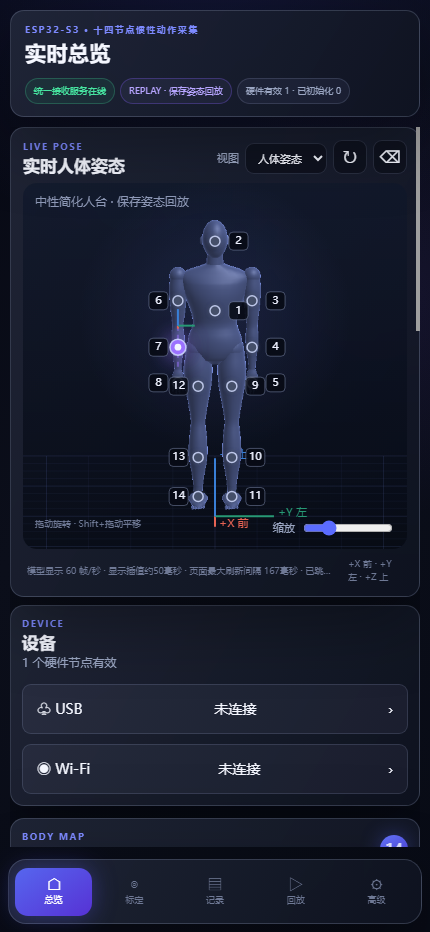
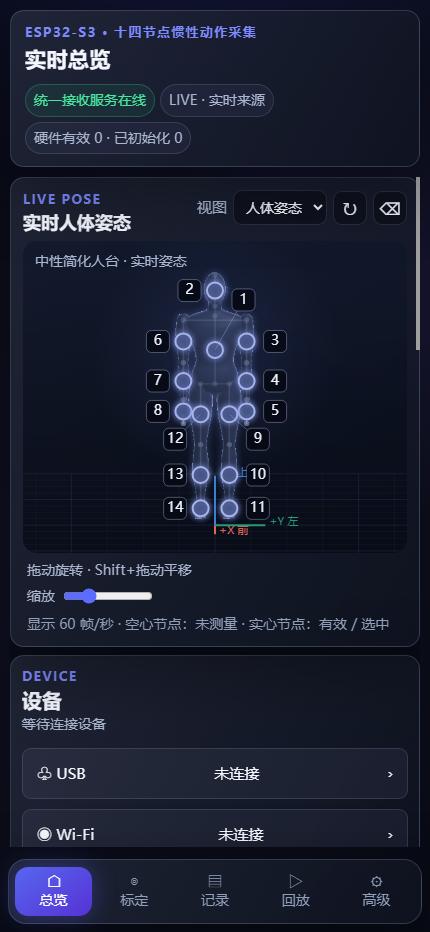
feat: layer glass mannequin skeleton sensors and improve readability

diff --git a/host/web/workspace.css b/host/web/workspace.css
@@ -30,3 +30,69 @@ html,body{height:100%;overflow:hidden}
 @media(min-width:1121px) and (max-height:850px){.topbar{min-height:65px;padding:10px 16px}.app-shell{padding-top:10px;padding-bottom:10px}.app-view[data-view=dashboard]{grid-template-rows:minmax(0,1fr) 165px}.dashboard-grid{grid-template-columns:230px minmax(0,1fr) 300px}.status-rail>.status-card{padding:11px}.status-rail h2{font-size:16px}.status-rail .quality-layout{margin-top:0;grid-template-columns:92px 1fr}.status-rail .quality-ring{width:86px;height:86px;padding:8px}.status-rail .quality-ring strong{font-size:18px}.status-rail .mini-stats{display:none}.transport-tiles{margin:7px 0}.transport-tiles>div{padding:8px}.calibration-progress{margin:8px 0}.status-rail p{font-size:11px;margin:7px 0}.status-rail button{font-size:11px;padding:6px}.body-slot strong{font-size:10px}.body-slot span{font-size:8px}.body-slot{padding-top:2px;padding-bottom:2px}.connection-summary button{padding:9px;margin-top:6px}.connection-summary p{margin:6px 0}.calibration-content{padding:14px}.cal-stepper{padding:7px}.cal-stepper button{font-size:12px}.hero-footer{font-size:8px}.hero-heading h2{font-size:15px}.hero-heading .kicker{display:none}}
 @media(max-width:1120px){.dashboard-grid{grid-template-columns:210px minmax(0,1fr) 260px}.status-rail{grid-column:auto}.status-rail .quality-layout{grid-template-columns:1fr}.quality-ring{display:none}.status-rail .mini-stats{display:none}.transport-tiles{grid-template-columns:1fr}.cal-stepper button{font-size:11px}}
 @media(max-width:900px){html,body{overflow:hidden}.app-shell{padding:10px 10px 85px}.app-main{gap:10px}.view-stack{overflow-y:auto;overflow-x:hidden}.app-view{height:auto;min-height:100%;overflow:visible}.app-view[data-view=dashboard]{display:flex;flex-direction:column}.dashboard-grid{display:flex;flex-direction:column;height:auto}.hero-panel{min-height:470px!important}.device-rail,.status-rail{height:auto}.hero-panel{order:0}.device-rail{order:1}.status-rail{order:2}.device-rail .body-slots{grid-template-rows:repeat(7,40px);height:auto}.status-rail .quality-layout{grid-template-columns:120px 1fr}.quality-ring{display:block}.status-rail .transport-tiles{grid-template-columns:1fr 1fr}.telemetry-dock{height:auto;overflow:visible}.telemetry-grid{height:auto;grid-template-columns:1fr}.chart-card canvas{height:140px;flex:none}.primary-nav{left:8px;right:8px;top:auto;bottom:8px;width:auto;height:65px;padding:6px;flex-direction:row}.brand-mark,.nav-version{display:none}.nav-links{flex-direction:row;margin:0;gap:4px}.nav-item{font-size:9px;min-width:0;flex:1;padding:5px 1px}.topbar{min-height:85px}.calibration-grid,.records-layout{display:flex;flex-direction:column}.cal-stepper{overflow:auto;gap:4px;padding:6px}.cal-stepper button{flex-direction:column;font-size:10px;white-space:nowrap;gap:5px;padding:5px}.cal-stepper b{width:24px;height:24px}.calibration-content{overflow:visible}.app-view[data-view=replay]{display:flex;flex-direction:column}#replay-controls{padding:15px}#replay-model{min-height:480px}.command-feedback{left:10px;right:10px;bottom:85px}.body-toolbar{max-width:none}.compact-select{width:auto}.compact-select select{width:auto}.stage-caption{flex-direction:row}.model-zoom{width:auto}.model-zoom input{width:90px}.stage-caption span{max-width:150px}.page-heading h2{font-size:21px}.cal-step-content .direction-steps{grid-template-columns:1fr}.records-layout>.glass{overflow:visible}.tableScroll{max-width:100%}}
+
+/* Readability: semantic importance uses color and weight, not tiny gray text. */
+:root{--muted:#aab6cf;--dim:#909fba}
+body{font-size:15px}
+button,input,select,label{font-size:15px}
+h2{font-size:20px}h3{font-size:17px}
+.eyebrow,.kicker,.nav-version{font-size:13px;letter-spacing:.1em}
+.badge,.top-status .badge,.nav-item{font-size:14px}
+.status-copy,.subtle,.hint,.device-summary,.sensor-strip,.sensor-strip span,
+.connection-summary p,.page-heading p,.cal-node-selector,.single-node-sensors,
+.quality-metrics span,.quality-metrics strong,.mini-stats span,.mini-stats strong,
+.transport-tiles strong,.status-rail p,.status-rail button,.stage-caption,
+.hero-footer,.model-zoom,.legend,.chart-card h3,.chart-card small,
+.body-slot strong,.body-slot span,.cal-step-content label,
+.calibration-content .pose-step p,.calibration-content .direction-result p,
+.direction-device small,.endpoint-row small,.endpoint-row button,#preview-status{font-size:14px;line-height:1.35}
+.body-slot strong{font-weight:600}.body-slot{padding-top:1px;padding-bottom:1px}
+.body-slot span{color:var(--muted)}.body-slot small{font-size:0}
+.slots-card .section-heading{margin-bottom:7px}.body-slots{height:calc(100% - 43px)}
+.hero-heading h2,.status-rail h2,.telemetry-heading h2{font-size:18px}
+.hero-footer p{white-space:normal;max-width:100%}.hero-footer>span{display:none}
+.hero-footer{min-height:20px}.stage-caption span{color:#aab6cf}
+.cal-stepper button,.calibration-content .calibration-devices h3{font-size:14px}
+.status-rail .transport-tiles strong{font-size:14px}
+.chart-card canvas{min-height:45px}
+.compact-select select{font-size:14px}
+#replay-controls{display:grid;grid-template-columns:repeat(2,minmax(0,1fr));align-content:start;gap:9px;padding:15px}
+#replay-controls>*{min-width:0;margin:0;font-size:15px}
+#replay-controls button{padding:8px 6px;min-height:36px}
+#replay-controls #bodySessions,#replay-controls #bodyRefreshSessions,
+#replay-controls #bodyReplaySeek,#replay-controls #bodyReplayTime,#replay-controls>label{grid-column:1/-1}
+#replay-controls>label{display:flex;align-items:center;justify-content:space-between;gap:10px}
+#replay-controls>label select{width:120px}
+#replay-controls #bodyReplaySeek{padding:0;margin:5px 0}
+#replay-controls #bodyReplayTime{color:#c1cce1}
+@media(min-width:901px) and (max-height:850px){
+  .topbar .eyebrow{display:none}.topbar{min-height:60px}
+  .status-rail>.status-card{padding:10px}.status-rail .transport-tiles{margin:5px 0;gap:6px}
+  .status-rail .transport-tiles>div{padding:6px}.status-rail .transport-tiles strong{margin-top:2px}
+  .status-rail p{margin:4px 0}.status-rail button{padding:5px 7px}
+  .connection-summary button{padding:8px;margin-top:5px}.connection-summary p{margin:4px 0}
+  .connection-summary .kicker,.slots-card .kicker,.status-rail .kicker{display:none}
+  .calibration-progress{margin:5px 0}.calibration-content .pose-step{padding:8px}
+  .calibration-content .pose-step p{margin:4px 0}.cal-stepper{padding:6px}
+  .app-view[data-view=replay]{grid-template-rows:auto minmax(0,1fr) 160px}
+  .app-view[data-view=replay]>.page-heading{padding:0}.app-view[data-view=replay]>.page-heading .kicker{display:none}
+  .app-view[data-view=replay]>.page-heading h2{font-size:20px}
+}
+@media(max-width:900px){
+  .nav-item{font-size:14px}.eyebrow,.kicker{font-size:13px}
+  .body-slot strong,.body-slot span{font-size:14px}.device-rail .body-slots{grid-template-rows:repeat(7,46px)}
+  .cal-stepper button{font-size:14px}.hero-footer{font-size:14px}
+  .stage-caption{flex-direction:column;align-items:flex-start;gap:5px}.stage-caption span{max-width:none}
+  .cal-node-selector{flex-direction:column;align-items:stretch}.cal-node-selector select{max-width:100%}
+}
+.nav-item{padding:7px 2px}.nav-item>span{white-space:nowrap}
+.body-slot strong,.body-slot span{line-height:1.15}
+.quality-ring span{font-size:14px}
+.stage-caption{position:static;padding:8px 4px 0;flex:none}
+.record-card>button:last-child:not(#bodyRecord){display:none}
+pre,.values,#previewTable,.board-angle-heading,.board-angle-axis span,.angles span,.calibration-progress i{font-size:14px}
+.body-slot small{display:none}
+.cal-step-content .pose-step button,.step-status{font-size:14px;line-height:1.35}
+.calibration-content .pose-step>span{font-size:14px}
+#replay-controls{padding:12px;gap:7px}
+@media(min-width:901px) and (max-height:850px){.status-rail .quality-layout{grid-template-columns:104px 1fr}.status-rail .quality-ring{width:96px;height:96px}}

diff --git a/host/web/body_view.js b/host/web/body_view.js
@@ -61,24 +61,35 @@
       }
       const segments=listSegments(frame);
       const bySegment=Object.fromEntries(segments.map(segment=>[segment.id||segment.slot,segment]));
+      // Internal skeleton is drawn before the translucent shell, so it is
+      // subdued by the glass rather than competing with the sensor markers.
+      ctx.save();ctx.lineCap="round";ctx.globalAlpha=.42;
+      for(const segment of segments){
+        const [start,end]=segmentEnds(segment,frame),a=project(translatePoint(start,rootOffset)),b=project(translatePoint(end,rootOffset));
+        line(a,b,"#b3c5e8",1.5);
+        const parent=bySegment[segment.parent];
+        if(parent){const [p0,p1]=segmentEnds(parent,frame),axis=p1.map((v,i)=>v-p0[i]),length=axis.reduce((sum,v)=>sum+v*v,0),t=length?Math.max(0,Math.min(1,axis.reduce((sum,v,i)=>sum+v*(start[i]-p0[i]),0)/length)):0,anchor=p0.map((v,i)=>v+axis[i]*t);line(project(translatePoint(anchor,rootOffset)),a,"#a4b8dc",1.3);}
+        ctx.fillStyle="#c4d2ed";for(const p of [a,b]){ctx.beginPath();ctx.arc(p[0],p[1],2.7,0,Math.PI*2);ctx.fill();}
+      }
+      ctx.restore();
       mannequin?.draw(ctx,segments.map(segment=>{const [start,end]=segmentEnds(segment,frame);return {...segment,start,end};}),project,{yaw:this.yaw,elevation:this.elevation,offset:rootOffset});
+      const markerCenters=segments.map(segment=>{const [start,end]=segmentEnds(segment,frame);return project(translatePoint(start.map((v,i)=>(v+end[i])/2),rootOffset));}),labelBoxes=[];
       let segmentIndex=0;
       for(const segment of segments) {
         segmentIndex++;
         const slot=segment.slot||segment.id||segment.body_slot,[start,end]=segmentEnds(segment,frame),a=project(translatePoint(start,rootOffset)),b=project(translatePoint(end,rootOffset)),status=segment.status||segment.state||(segment.measured?"measured":"unmeasured"),selected=slot===selectedSlot;
         const color=COLORS[status]||COLORS[segment.measured?"measured":"unmeasured"];
-        // The links between joint anchors are virtual geometry, not additional
-        // sampled segments. Connect to the nearest point on the parent bone.
-        const parent=bySegment[segment.parent];
         if(selected)line(a,b,"rgba(155,114,255,.5)",2,segment.measured?[]:[5,4]);
-        const node=[(a[0]+b[0])/2,(a[1]+b[1])/2],radius=selected?8:segment.measured?7:5;
-        ctx.save();ctx.shadowColor=selected?"#9873ff":color;ctx.shadowBlur=selected?22:segment.measured?15:4;ctx.fillStyle=selected?"#9b72ff":color;ctx.beginPath();ctx.arc(node[0],node[1],radius,0,Math.PI*2);ctx.fill();ctx.strokeStyle="rgba(210,220,255,.85)";ctx.lineWidth=1.5;ctx.stroke();
-        if(segment.measured||selected){ctx.shadowBlur=0;ctx.fillStyle="#f1f4ff";ctx.beginPath();ctx.arc(node[0],node[1],radius*.42,0,Math.PI*2);ctx.fill();}ctx.restore();
-        const labelX=node[0]+(node[0]<box.width/2-8?-29:14);ctx.save();ctx.fillStyle="rgba(7,10,21,.88)";ctx.strokeStyle="rgba(163,177,217,.5)";ctx.lineWidth=.8;ctx.beginPath();if(ctx.roundRect)ctx.roundRect(labelX,node[1]-9,19,18,4);else ctx.rect(labelX,node[1]-9,19,18);ctx.fill();ctx.stroke();ctx.fillStyle="#eef1ff";ctx.font="11px system-ui";ctx.textAlign="center";ctx.textBaseline="middle";ctx.fillText(String(segmentIndex),labelX+9.5,node[1]);ctx.restore();
+        const node=[(a[0]+b[0])/2,(a[1]+b[1])/2],radius=selected?10:8,unmeasured=["missing","unmeasured"].includes(status),ringColor=unmeasured?"#8494de":selected?"#a18aff":color;
+        ctx.save();ctx.shadowColor=ringColor;ctx.shadowBlur=selected?20:segment.measured?15:6;ctx.fillStyle=unmeasured?"rgba(54,67,110,.8)":ringColor;ctx.beginPath();ctx.arc(node[0],node[1],radius,0,Math.PI*2);ctx.fill();ctx.strokeStyle=unmeasured?"#a5b4ea":"#bec9ff";ctx.lineWidth=2;ctx.stroke();
+        if(segment.measured||selected){ctx.shadowBlur=0;ctx.fillStyle="#f6f8ff";ctx.beginPath();ctx.arc(node[0],node[1],radius*.42,0,Math.PI*2);ctx.fill();}ctx.restore();
+        const preferred=node[0]<box.width/2-8?-37:17;let labelX=node[0]+preferred,labelY=node[1]-11;
+        search:for(const dy of [0,-25,25,-50,50])for(const dx of [preferred,preferred===17?-37:17]){const x=node[0]+dx,y=node[1]-11+dy;if(x<2||x+23>box.width-2||y<32||y+22>box.height-2)continue;const overlaps=labelBoxes.some(r=>x<r.x+27&&x+27>r.x&&y<r.y+25&&y+25>r.y)||markerCenters.some((p,i)=>i!==segmentIndex-1&&p[0]>x-9&&p[0]<x+32&&p[1]>y-9&&p[1]<y+31);if(!overlaps){labelX=x;labelY=y;break search;}}
+        labelBoxes.push({x:labelX,y:labelY});if(Math.abs(labelY+11-node[1])>2)line(node,[labelX+11.5,labelY+11],"rgba(158,176,221,.5)",.8);
+        ctx.save();ctx.fillStyle="rgba(7,10,21,.92)";ctx.strokeStyle="rgba(163,177,217,.55)";ctx.lineWidth=.8;ctx.beginPath();if(ctx.roundRect)ctx.roundRect(labelX,labelY,23,22,5);else ctx.rect(labelX,labelY,23,22);ctx.fill();ctx.stroke();ctx.fillStyle="#eef1ff";ctx.font="14px system-ui";ctx.textAlign="center";ctx.textBaseline="middle";ctx.fillText(String(segmentIndex),labelX+11.5,labelY+11);ctx.restore();
         this.hits.push({slot,device_id:segment.device_id,a,b});
-        if(selected){[[.1,0,0],[0,.1,0],[0,0,.1]].forEach((axis,i)=>{const delta=rotate(axis,segment.world_quaternion||[1,0,0,0]);line(a,project(translatePoint(start.map((v,j)=>v+delta[j]),rootOffset)),["#e66354","#279975","#397fd7"][i],2);});}
       }
-      ctx.font="12px system-ui";ctx.fillStyle="#8f9ab8";ctx.fillText(this.kind==="fixed"?`中性简化人台 · ${mode==="REPLAY"?"保存姿态回放":"实时姿态"}`:`独立位置来源：${positionSource==="off"?"关闭":positionSource}`,12,23);
+      ctx.font="14px system-ui";ctx.fillStyle="#aab6d1";ctx.fillText(this.kind==="fixed"?`中性简化人台 · ${mode==="REPLAY"?"保存姿态回放":"实时姿态"}`:`独立位置来源：${positionSource==="off"?"关闭":positionSource}`,12,25);
       if(!segments.length){ctx.fillText("等待骨架帧；未接入节点不推测动作",12,44);}
       if(this.kind==="translated"){ctx.fillStyle="#f0b45d";ctx.fillText("相机拖动只改变观察视角，不是测量平移",12,box.height-12);}
     }

diff --git a/host/web/mannequin.js b/host/web/mannequin.js
@@ -85,16 +85,16 @@
       const points=projected.flatMap(face=>face.points),left=Math.floor(Math.min(...points.map(p=>p[0])))-2,top=Math.floor(Math.min(...points.map(p=>p[1])))-2,right=Math.ceil(Math.max(...points.map(p=>p[0])))+2,bottom=Math.ceil(Math.max(...points.map(p=>p[1])))+2;
       const resolution=Math.min(1.6,1200/Math.max(1,bottom-top)),width=Math.max(1,Math.ceil((right-left)*resolution)),height=Math.max(1,Math.ceil((bottom-top)*resolution));
       const buffer=new OffscreenCanvas(width,height),target=buffer.getContext("2d"),pixels=target.createImageData(width,height),depths=new Float32Array(width*height).fill(-Infinity),half=unit(add(light,view));
-      const shade=normal=>{let n=normal;if(dot(n,view)<0)n=mul(n,-1);const diffuse=Math.max(0,dot(n,light)),rim=(1-Math.abs(dot(n,view)))**4,spec=Math.max(0,dot(n,half))**24,k=.55+.5*diffuse+.25*rim;return [77,90,137].map((v,i)=>Math.min(255,v*k+rim*[57,67,108][i]+spec*40));};
+      const shade=normal=>{let n=normal;if(dot(n,view)<0)n=mul(n,-1);const diffuse=Math.max(0,dot(n,light)),rim=(1-Math.abs(dot(n,view)))**3,spec=Math.max(0,dot(n,half))**24,k=.44+.4*diffuse;return [...[61,73,108].map((v,i)=>Math.min(255,v*k+rim*[130,146,205][i]+spec*30)),255*(.58+.38*rim)];};
       for(const face of projected){const vertices=face.points.map((p,i)=>[(p[0]-left)*resolution,(p[1]-top)*resolution,p[2],...shade(face.normals[i])]);
         for(const indices of [[0,1,2],[0,2,3]]){const [a,b,c]=indices.map(i=>vertices[i]),den=(b[1]-c[1])*(a[0]-c[0])+(c[0]-b[0])*(a[1]-c[1]);if(Math.abs(den)<1e-8)continue;
           const x0=Math.max(0,Math.floor(Math.min(a[0],b[0],c[0]))),x1=Math.min(width-1,Math.ceil(Math.max(a[0],b[0],c[0]))),y0=Math.max(0,Math.floor(Math.min(a[1],b[1],c[1]))),y1=Math.min(height-1,Math.ceil(Math.max(a[1],b[1],c[1])));
-          for(let y=y0;y<=y1;y++)for(let x=x0;x<=x1;x++){const u=((b[1]-c[1])*(x+.5-c[0])+(c[0]-b[0])*(y+.5-c[1]))/den,v=((c[1]-a[1])*(x+.5-c[0])+(a[0]-c[0])*(y+.5-c[1]))/den,w=1-u-v;if(u<-.001||v<-.001||w<-.001)continue;const index=y*width+x,z=u*a[2]+v*b[2]+w*c[2];if(z<depths[index])continue;depths[index]=z;const pixel=index*4;for(let channel=0;channel<3;channel++)pixels.data[pixel+channel]=u*a[channel+3]+v*b[channel+3]+w*c[channel+3];pixels.data[pixel+3]=255;}
+          for(let y=y0;y<=y1;y++)for(let x=x0;x<=x1;x++){const u=((b[1]-c[1])*(x+.5-c[0])+(c[0]-b[0])*(y+.5-c[1]))/den,v=((c[1]-a[1])*(x+.5-c[0])+(a[0]-c[0])*(y+.5-c[1]))/den,w=1-u-v;if(u<-.001||v<-.001||w<-.001)continue;const index=y*width+x,z=u*a[2]+v*b[2]+w*c[2];if(z<depths[index])continue;depths[index]=z;const pixel=index*4;for(let channel=0;channel<4;channel++)pixels.data[pixel+channel]=u*a[channel+3]+v*b[channel+3]+w*c[channel+3];}
         }
       }
-      target.putImageData(pixels,0,0);ctx.drawImage(buffer,left,top,right-left,bottom-top);return projected.length;
+      target.putImageData(pixels,0,0);ctx.save();ctx.shadowColor="rgba(135,166,255,.45)";ctx.shadowBlur=7;ctx.drawImage(buffer,left,top,right-left,bottom-top);ctx.restore();return projected.length;
     }
-    ctx.save();ctx.lineJoin="round";ctx.lineWidth=.65;
+    ctx.save();ctx.lineJoin="round";ctx.lineWidth=.65;ctx.globalAlpha=.7;
     for(const face of projected){
       // Two-sided soft shading avoids holes where adjacent articulated surfaces overlap.
       const colors=face.normals.map((normal,index)=>{let n=normal;if(dot(n,view)<0)n=mul(n,-1);const diffuse=Math.max(0,dot(n,light)),rim=(1-Math.abs(dot(n,view)))**4,spec=Math.max(0,dot(n,unit(add(light,view))))**24,shade=.55+.5*diffuse+.25*rim;const rgb=[77,90,137].map((v,i)=>Math.round(Math.min(255,v*shade+rim*[57,67,108][i]+spec*40)));return {point:face.points[index],brightness:rgb[0],color:`rgb(${rgb.join(",")})`};}).sort((a,b)=>a.brightness-b.brightness);

diff --git a/host/web/index.html b/host/web/index.html
@@ -7,7 +7,7 @@
   <title>IMU 动作捕捉开发台</title>
   <link rel="icon" href="data:,">
   <link rel="stylesheet" href="/static/style.css?v=glass-v2-20261030">
-  <link rel="stylesheet" href="/static/workspace.css?v=glass-v2-20261030">
+  <link rel="stylesheet" href="/static/workspace.css?v=glass-layer-v5">
 </head>
 <body>
 <div class="ambient ambient-one"></div><div class="ambient ambient-two"></div>
@@ -208,7 +208,7 @@
 
 <dialog id="recordDialog"><div class="section-heading"><h2>历史记录与回放</h2><button id="closeDialog">关闭</button></div><div class="buttons"><select id="sessions" aria-label="记录会话"></select><button id="preview">预览</button><button id="loadReplay">加载回放</button><button id="download">导出 ZIP</button></div><p id="sessionInfo" class="subtle"></p><div class="tableScroll"><table id="previewTable"></table></div></dialog>
 <script src="/static/session_archive.js?v=glass-v2-20261030" defer></script><script src="/static/navigation.js?v=glass-v2-20261030" defer></script>
-<script src="/static/mannequin.js?v=surface-v4" defer></script>
-<script src="/static/pose_math.js?v=glass-v2-20261030" defer></script><script src="/static/body_view.js?v=surface-v4" defer></script><script src="/static/app.js?v=glass-v2-20261030" defer></script><script src="/static/direction_app.js?v=glass-v2-20261030" defer></script><script src="/static/body_app.js?v=glass-v2-20261030" defer></script>
+<script src="/static/mannequin.js?v=glass-layer-v5" defer></script>
+<script src="/static/pose_math.js?v=glass-v2-20261030" defer></script><script src="/static/body_view.js?v=glass-layer-v5" defer></script><script src="/static/app.js?v=glass-layer-v5" defer></script><script src="/static/direction_app.js?v=glass-v2-20261030" defer></script><script src="/static/body_app.js?v=glass-layer-v5" defer></script>
 </body>
 </html>

diff --git a/host/tests/test_body_layers.js b/host/tests/test_body_layers.js
@@ -1,0 +1,17 @@
+"use strict";
+const assert=require("node:assert/strict");
+globalThis.PoseMath=require("../web/pose_math.js");
+const mannequin=require("../web/mannequin.js"),originalDraw=mannequin.draw,events=[];
+mannequin.draw=()=>events.push("glass");
+const {BodyView}=require("../web/body_view.js");
+const context=new Proxy({}, {get(target,key){if(key in target)return target[key];return (...args)=>{if(key==="stroke")events.push("stroke:"+target.strokeStyle);if(key==="fill")events.push("fill:"+target.fillStyle);if(key==="fillText")events.push("label:"+args[0]);};}});
+const canvas={addEventListener(){},getBoundingClientRect(){return {width:800,height:600};},getContext(){return context;}};
+const frame={segments:[{id:"pelvis",start:[0,0,1],end:[0,0,1.48],status:"unmeasured"},{id:"right_forearm",parent:"pelvis",start:[0,-.22,1.15],end:[0,-.22,.89],measured:true,status:"online"}]};
+const saved=JSON.stringify(frame);
+try{new BodyView(canvas).draw(frame,{selectedSlot:"right_forearm"});
+ const shell=events.indexOf("glass"),bone=events.indexOf("stroke:#b3c5e8"),core=events.indexOf("fill:#f6f8ff"),label=events.indexOf("label:2");
+ assert.ok(bone>=0&&bone<shell,"internal skeleton must be behind the glass shell");
+ assert.ok(core>shell&&label>shell,"sensor cores and independent labels must be above glass");
+ assert.equal(JSON.stringify(frame),saved);
+}finally{mannequin.draw=originalDraw;}
+console.log("Body layers: skeleton below glass, sensor cores/labels above glass, source unchanged passed");

diff --git a/host/web/app.js b/host/web/app.js
@@ -49,7 +49,7 @@ function drawChart(canvas, samples) {
   const {ctx,width,height}=canvasSize(canvas);ctx.clearRect(0,0,width,height);
   let min=Infinity,max=-Infinity;for(const sample of samples)for(const v of sample){min=Math.min(min,v);max=Math.max(max,v);}
   if(!samples.length){min=-1;max=1;}if(max-min<.01){min-=.5;max+=.5;}const pad=(max-min)*.1;min-=pad;max+=pad;
-  ctx.font="11px system-ui";ctx.fillStyle="#7f89a6";ctx.fillText(format(max,1),0,12);ctx.fillText(format(min,1),0,height-5);
+  ctx.font="14px system-ui";ctx.fillStyle="#aab6cf";ctx.fillText(format(max,1),0,15);ctx.fillText(format(min,1),0,height-5);
   ctx.lineWidth=1;ctx.strokeStyle="rgba(122,135,184,.14)";for(let j=0;j<4;j++){const y=8+j*(height-16)/3;ctx.beginPath();ctx.moveTo(48,y);ctx.lineTo(width,y);ctx.stroke();}
   for(let axis=0;axis<3;axis++){ctx.strokeStyle=colors[axis];ctx.shadowColor=colors[axis];ctx.shadowBlur=4;ctx.lineWidth=1.5;ctx.beginPath();samples.forEach((v,i)=>{const x=48+i*(width-50)/Math.max(1,samples.length-1),y=height-8-(v[axis]-min)/(max-min)*(height-16);i?ctx.lineTo(x,y):ctx.moveTo(x,y);});ctx.stroke();ctx.shadowBlur=0;}
 }

diff --git a/host/web/body_app.js b/host/web/body_app.js
@@ -169,7 +169,7 @@
     draw(now);displayFrames++;
     if(now-displayWindow>=1000){displayFps=displayFrames*1000/(now-displayWindow);displayFrames=0;displayWindow=now;
       const stale=lastAcceptedAt!==null&&clock()-lastAcceptedAt>500;
-      byId("bodyRenderStatus").textContent=`模型显示 ${Math.round(displayFps)} 帧/秒 · 显示插值约50毫秒 · 页面最大刷新间隔 ${Math.round(diagnostics.maxAnimationGapMs)}毫秒 · 已跳过 ${diagnostics.staleStates} 条过时显示状态${stale?" · 页面状态滞后，保持最后姿态":""}；数据频率以接收质量为准`;}
+      byId("bodyRenderStatus").textContent=`显示 ${Math.round(displayFps)} 帧/秒${stale?" · 状态失鲜，保持最后姿态":""} · 空心节点：未测量 · 实心节点：有效 / 选中`;}
     requestAnimationFrame(animate);
   }connect();requestAnimationFrame(animate);
 })();
